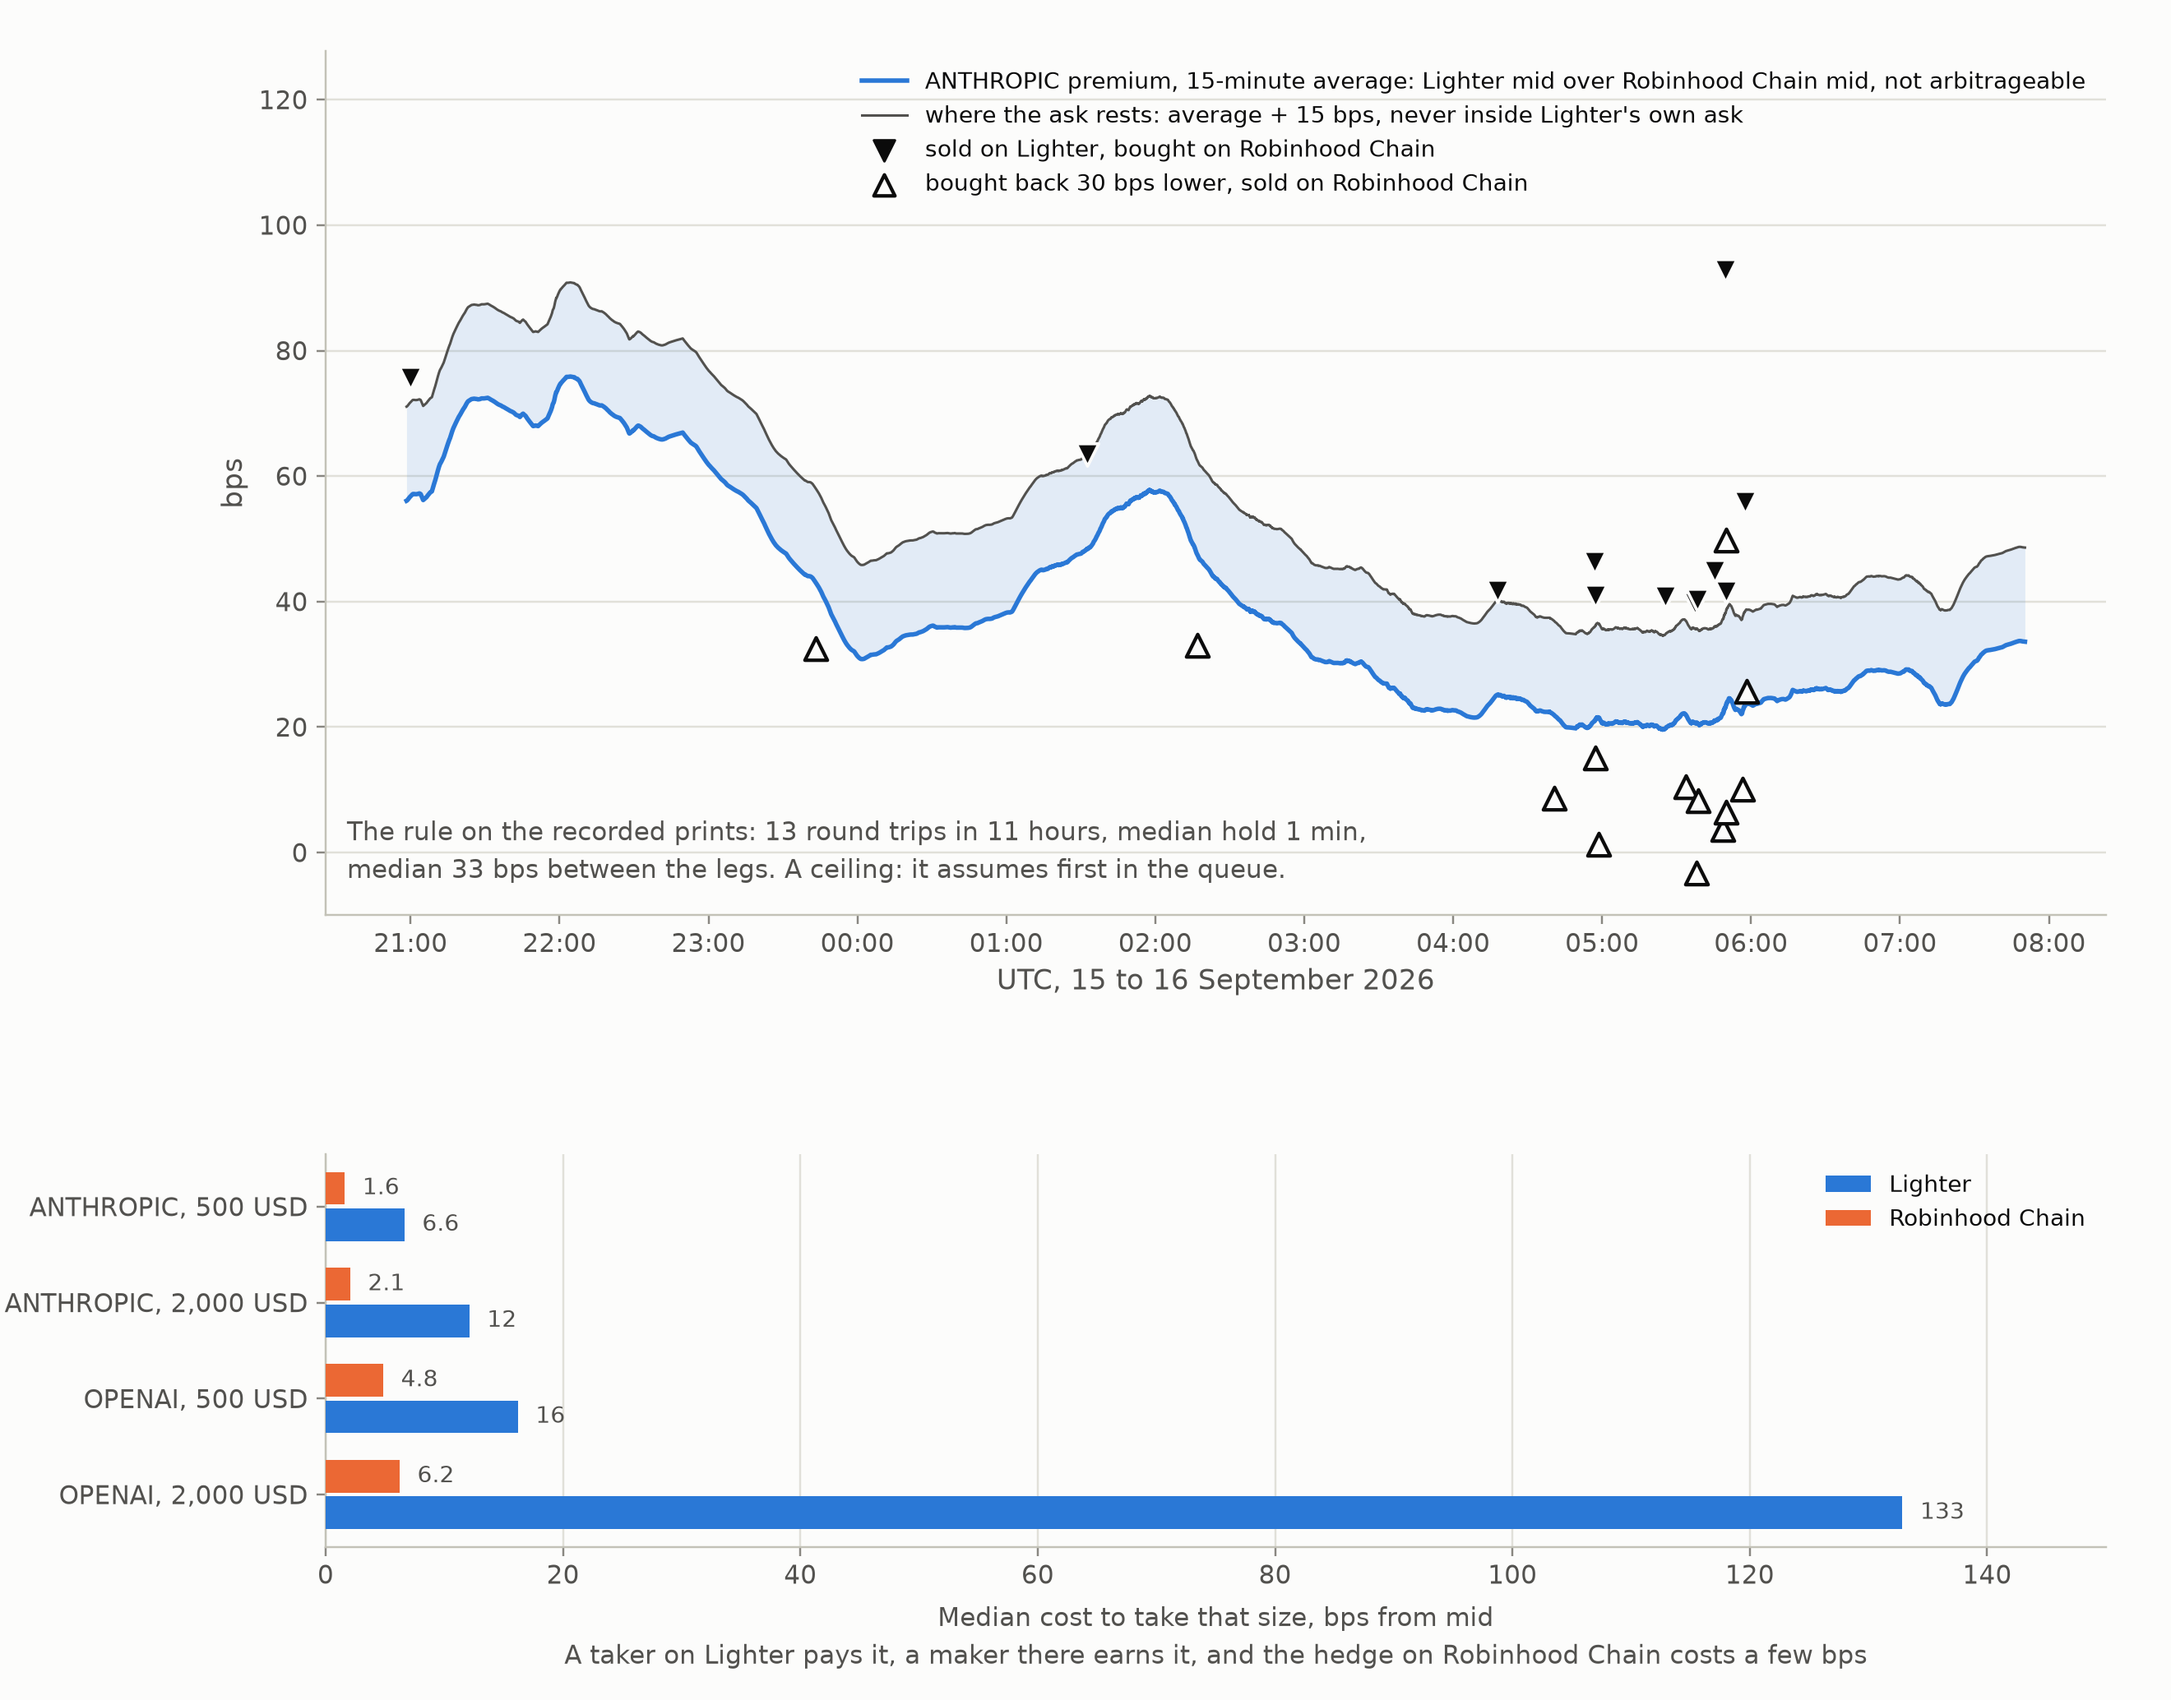
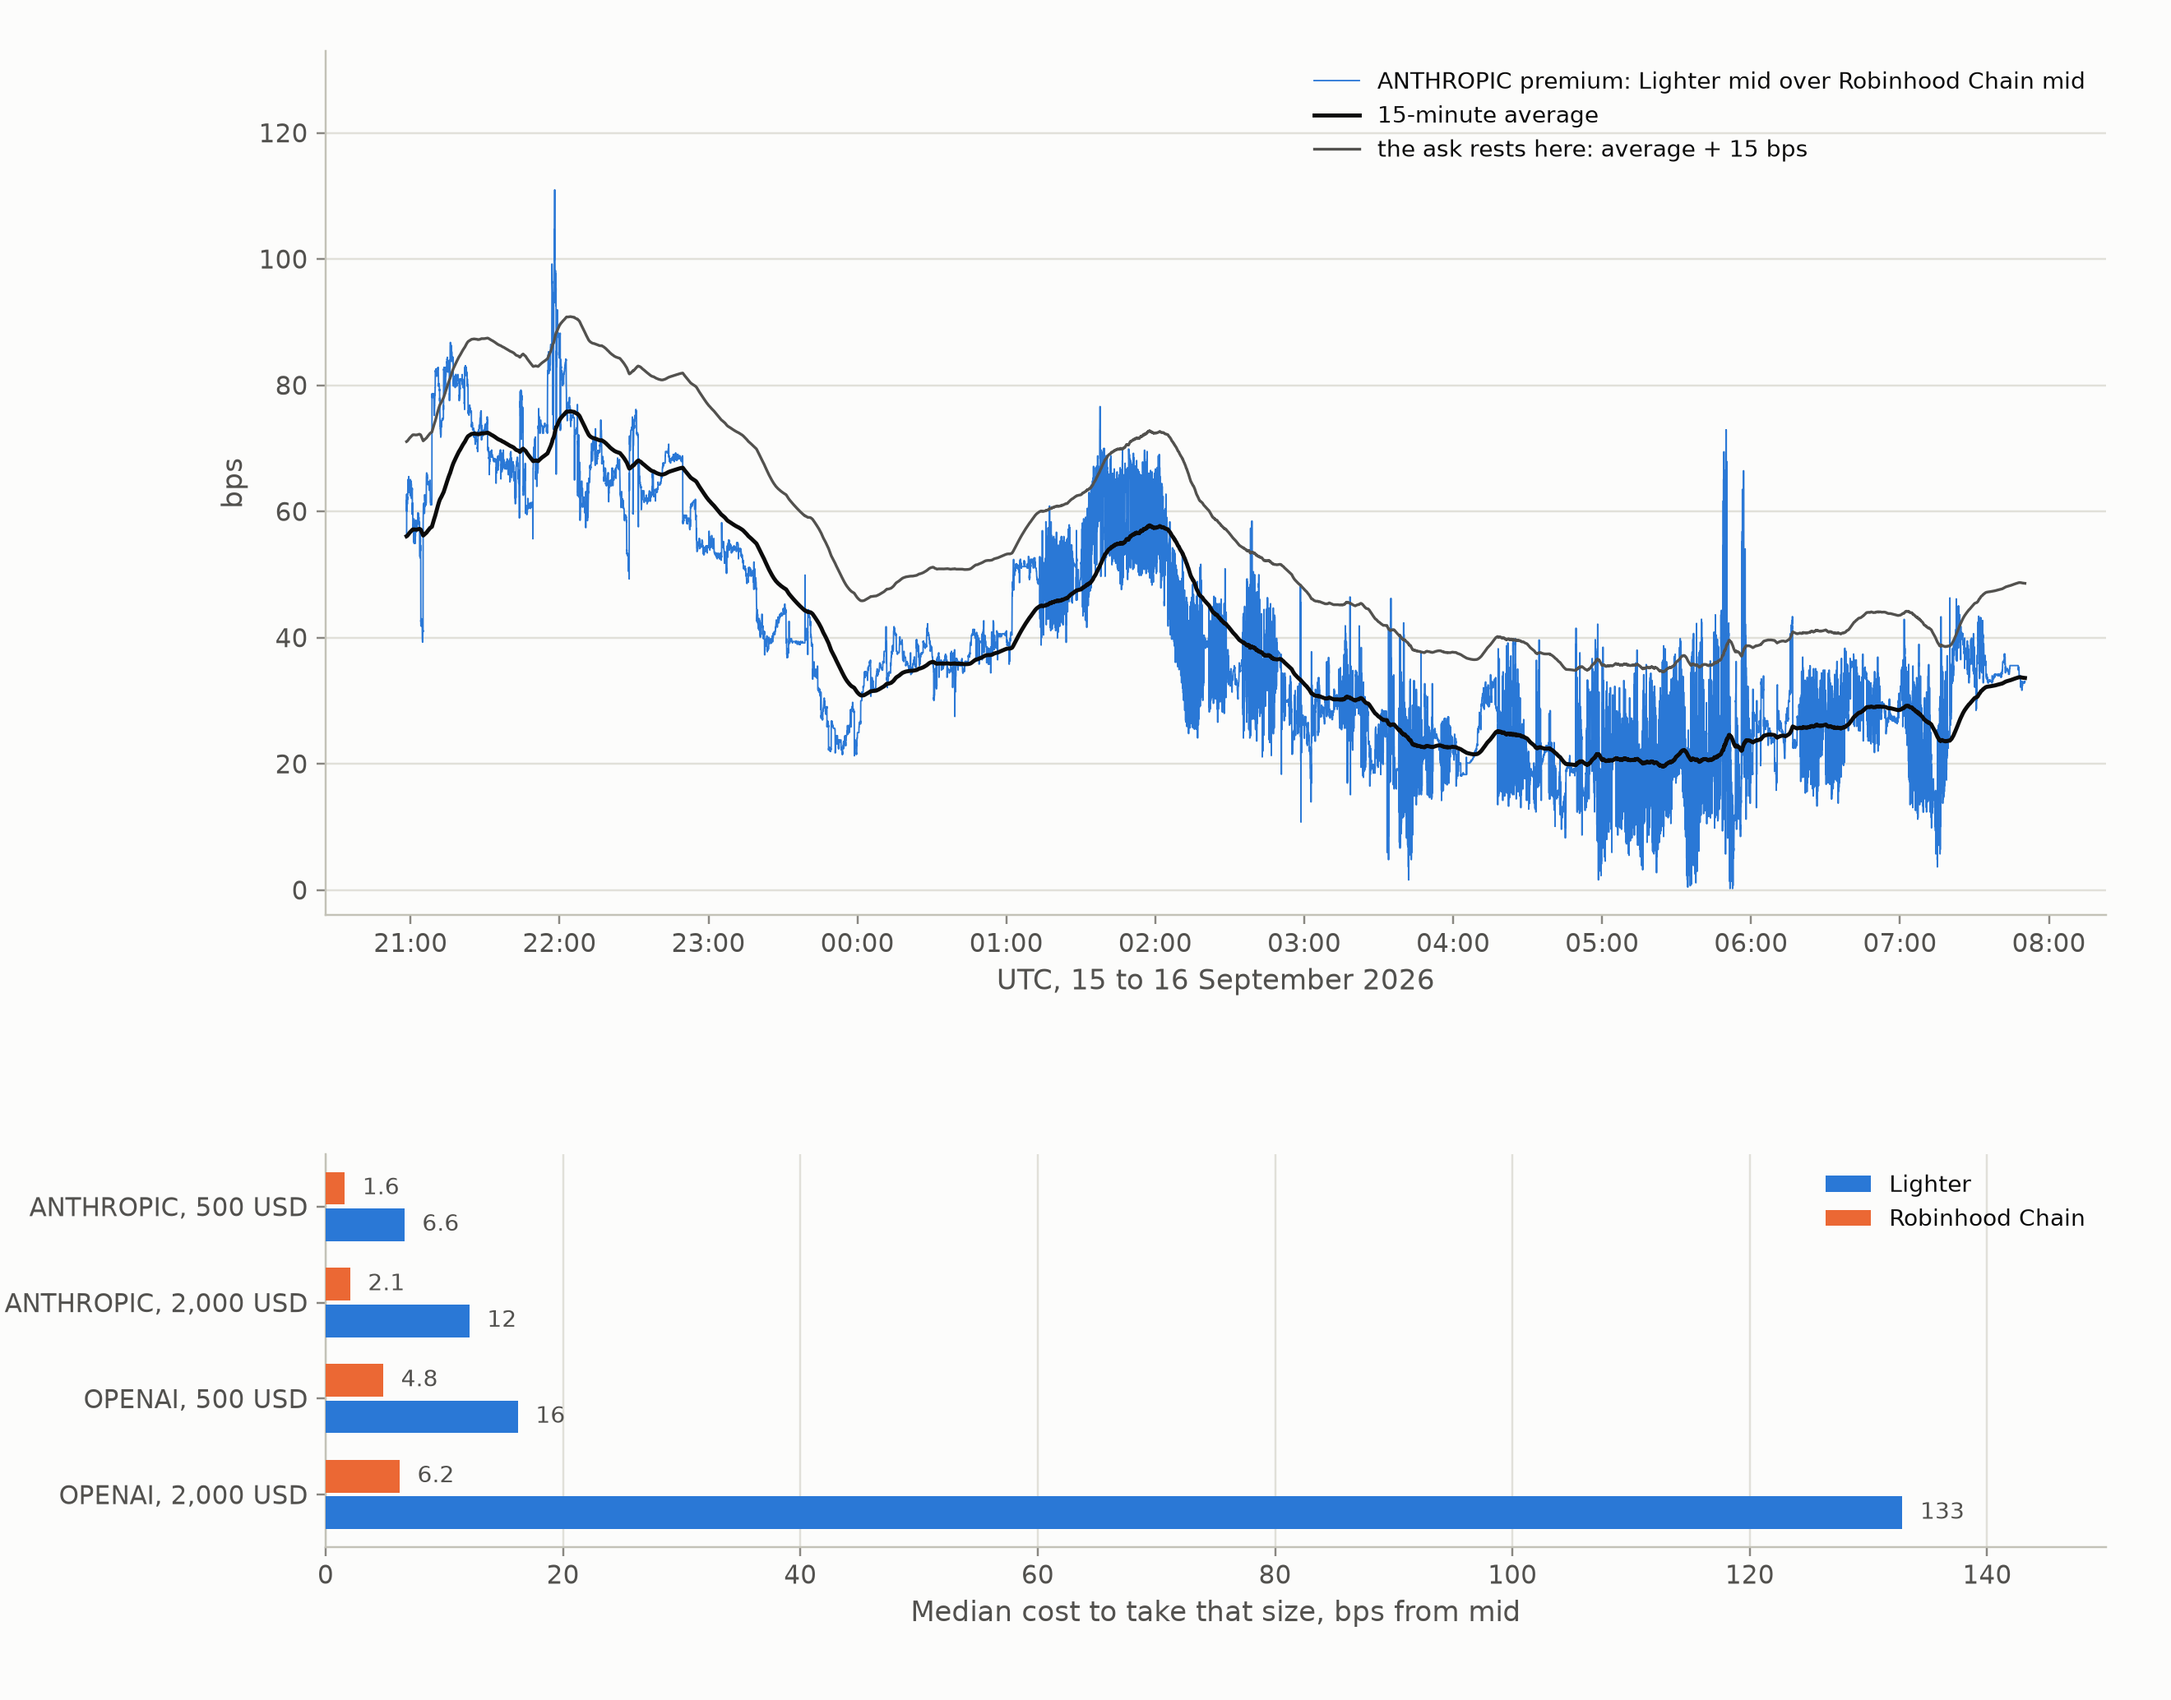
The why-make chart: the ANTHROPIC premium, its 15-minute average and the line 15 bps above it where the ask rests; the round-trip replay and its markers dropped

diff --git a/analysis/chart.py b/analysis/chart.py
@@ -2,9 +2,9 @@
 
 results/touch_cross.png: the touch cross second by second for five markets. Above the line Lighter's bid is over
 Robinhood Chain's ask; below it Robinhood Chain's bid is over Lighter's ask; on the line nothing crosses.
-results/why_make.png: why the maker rests an ask on Lighter and hedges on Robinhood Chain. Top: the 15-minute average of
-ANTHROPIC's premium over the night, the band above it where the ask rests, and the round trips the rule would have made on
-the recorded prints. Bottom: the median cost of taking 500 and 2,000 USD on each venue, from the books walked every second."""
+results/why_make.png: why the maker rests an ask on Lighter and hedges on Robinhood Chain. Top: ANTHROPIC's premium over
+the night, its 15-minute average and the line above it where the ask rests. Bottom: the median cost of taking 500 and
+2,000 USD on each venue, from the books walked every second."""
 
 from __future__ import annotations
 
@@ -70,58 +70,22 @@ def ema(x: np.ndarray, t: np.ndarray, tau: float) -> np.ndarray:
     return out
 
 
-def round_trips(pair: pd.DataFrame, trades: pd.DataFrame, sym: str) -> tuple[pd.DataFrame, np.ndarray, pd.DataFrame]:
-    """The maker rule on the recorded prints: an ask rests above the premium average by the edge (never inside Lighter's own
-    ask) and is filled by a buy printing at or above it; the exit rests 2 x edge under the entry gap (never inside Lighter's
-    bid) and is filled by a sell printing at or below it. Optimistic on queue position, so the count is a ceiling."""
-    g = pair[pair.sym == sym].sort_values("sec").reset_index(drop=True)
-    avg = ema(g.gap_bps.values, g.sec.values.astype(float), TAU_S)
-    g["avg"] = avg
-    tr = trades[trades.sym == sym].sort_values("t").copy()
-    tr["sec"] = tr.t.astype(int)
-    tr = tr.join(g.set_index("sec")[["avg", "l_ask", "l_bid", "r_ask", "r_bid"]], on="sec").dropna()
-    tr["ask"] = np.maximum(tr.r_ask * (1 + (np.maximum(tr.avg, 0) + EDGE_BPS) / 1e4), tr.l_ask)
-    rows, open_entry = [], None
-    for r in tr.itertuples():
-        if open_entry is None:
-            if r.taker == "buy" and r.price >= r.ask:
-                open_entry = (r.t, (r.price / r.r_ask - 1) * 1e4)
-        else:
-            t0, gap0 = open_entry
-            bid = min(r.r_bid * (1 + (gap0 - 2 * EDGE_BPS) / 1e4), r.l_bid)
-            if r.taker == "sell" and r.price <= bid:
-                rows.append((t0, gap0, r.t, (r.price / r.r_bid - 1) * 1e4))
-                open_entry = None
-    return g, avg, pd.DataFrame(rows, columns=["entry_t", "entry_gap", "exit_t", "exit_gap"])
-
-
 def why_make() -> None:
     sym = "ANTHROPIC"
-    pair = pd.read_parquet(ROOT / "derived" / "pair_1s.parquet", columns=["sec", "sym", "gap_bps", "l_ask", "l_bid", "r_ask", "r_bid"], filters=[("sym", "in", [sym, "OPENAI"])])
-    trades = pd.read_parquet(ROOT / "derived" / "trades_lighter.parquet", columns=["t", "sym", "price", "size", "taker"], filters=[("sym", "==", sym)])
-    g, avg, trips = round_trips(pair, trades, sym)
+    g = pd.read_parquet(ROOT / "derived" / "pair_1s.parquet", columns=["sec", "sym", "gap_bps"], filters=[("sym", "==", sym)]).sort_values("sec")
+    avg = ema(g.gap_bps.values, g.sec.values.astype(float), TAU_S)
     t = pd.to_datetime(g.sec, unit="s")
     fig = plt.figure(figsize=(12, 9.4))
     gs = fig.add_gridspec(2, 1, height_ratios=[2.2, 1], hspace=0.38, left=0.15, right=0.97, top=0.97, bottom=0.09)
     ax = fig.add_subplot(gs[0])
     ask_line = np.maximum(avg, 0) + EDGE_BPS
-    ax.fill_between(t, avg, ask_line, color=BLUE, alpha=0.12, linewidth=0)
-    ax.plot(t, avg, color=BLUE, lw=1.8, label=f"{sym} premium, 15-minute average: Lighter mid over Robinhood Chain mid, not arbitrageable")
-    ax.plot(t, ask_line, color=INK2, lw=1.0, label=f"where the ask rests: average + {EDGE_BPS:.0f} bps, never inside Lighter's own ask")
-    for r in trips.itertuples():
-        te, tx = pd.to_datetime(r.entry_t, unit="s"), pd.to_datetime(r.exit_t, unit="s")
-        ax.scatter([te], [r.entry_gap], marker="v", s=80, color=INK, edgecolor=SURFACE, linewidth=1.2, zorder=5)
-        ax.scatter([tx], [r.exit_gap], marker="^", s=80, color=SURFACE, edgecolor=INK, linewidth=1.4, zorder=5)
-    ax.scatter([], [], marker="v", s=70, color=INK, label="sold on Lighter, bought on Robinhood Chain")
-    ax.scatter([], [], marker="^", s=70, color=SURFACE, edgecolor=INK, linewidth=1.4, label=f"bought back {2 * EDGE_BPS:.0f} bps lower, sold on Robinhood Chain")
-    net = ((trips.entry_gap - trips.exit_gap)).median() if len(trips) else float("nan")
+    ax.plot(t, g.gap_bps.values, color=BLUE, lw=0.6, label=f"{sym} premium: Lighter mid over Robinhood Chain mid")
+    ax.plot(t, avg, color=INK, lw=1.6, label="15-minute average")
+    ax.plot(t, ask_line, color=INK2, lw=1.1, label=f"the ask rests here: average + {EDGE_BPS:.0f} bps")
     ax.set_ylabel("bps")
-    ax.set_ylim(-10, max(float(ask_line.max()), float(trips.entry_gap.max())) + 35)  # room for the legend above the data
+    ax.set_ylim(-4, float(g.gap_bps.max()) + 22)  # room for the legend above the data
     ax.xaxis.set_major_formatter(matplotlib.dates.DateFormatter("%H:%M"))
     ax.set_xlabel("UTC, 15 to 16 September 2026")
-    ax.text(0.012, 0.03, f"The rule on the recorded prints: {len(trips)} round trips in 11 hours, median hold "
-            f"{((trips.exit_t - trips.entry_t) / 60).median():.0f} min,\nmedian {net:.0f} bps between the legs. A ceiling: it assumes first in the queue.",
-            transform=ax.transAxes, fontsize=10, color=INK2, va="bottom", ha="left", linespacing=1.5, zorder=6)
     ax.grid(axis="x", visible=False)
     ax.legend(loc="upper right", fontsize=9, ncol=1)
     ax2 = fig.add_subplot(gs[1])
@@ -140,7 +104,7 @@ def why_make() -> None:
     ax2.set_yticks(y, [f"{s_}, {c:,} USD" for s_, c in rows])
     ax2.invert_yaxis()
     ax2.set_xlim(0, 150)
-    ax2.set_xlabel("Median cost to take that size, bps from mid\nA taker on Lighter pays it, a maker there earns it, and the hedge on Robinhood Chain costs a few bps", fontsize=10, linespacing=1.5)
+    ax2.set_xlabel("Median cost to take that size, bps from mid")
     ax2.grid(axis="y", visible=False)
     ax2.legend(loc="upper right", fontsize=9)
     fig.savefig(OUT / "why_make.png")
